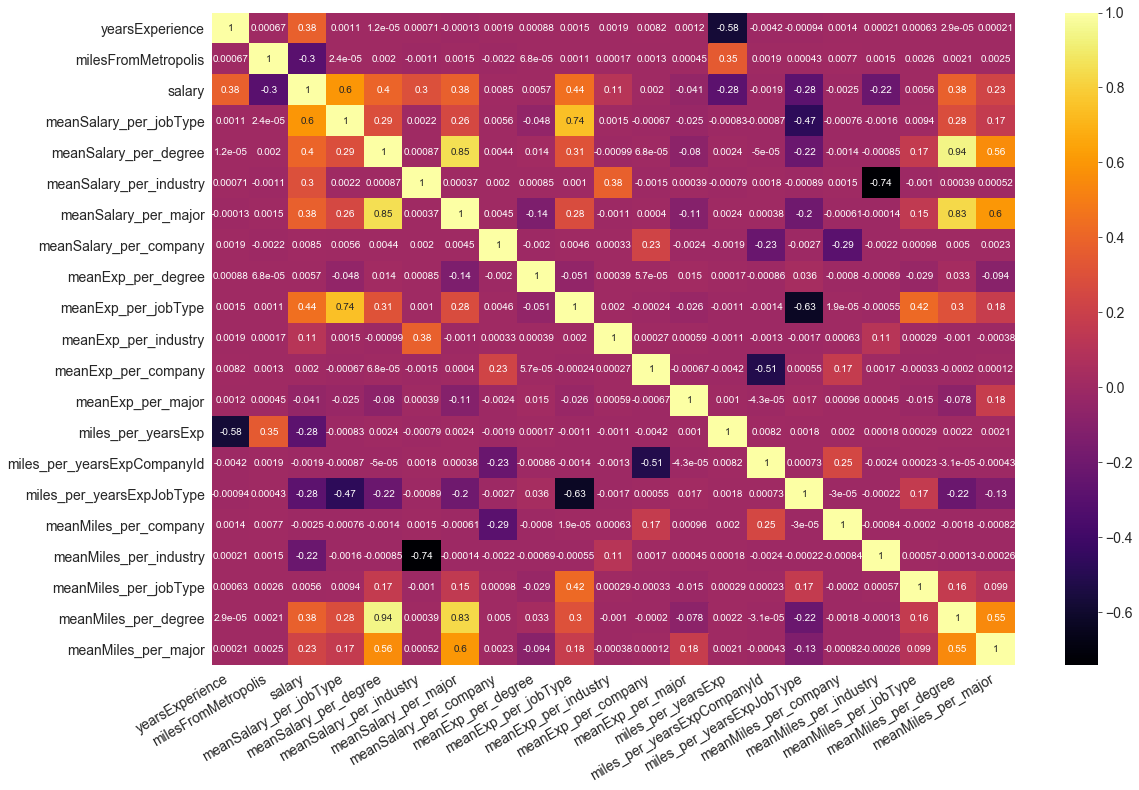
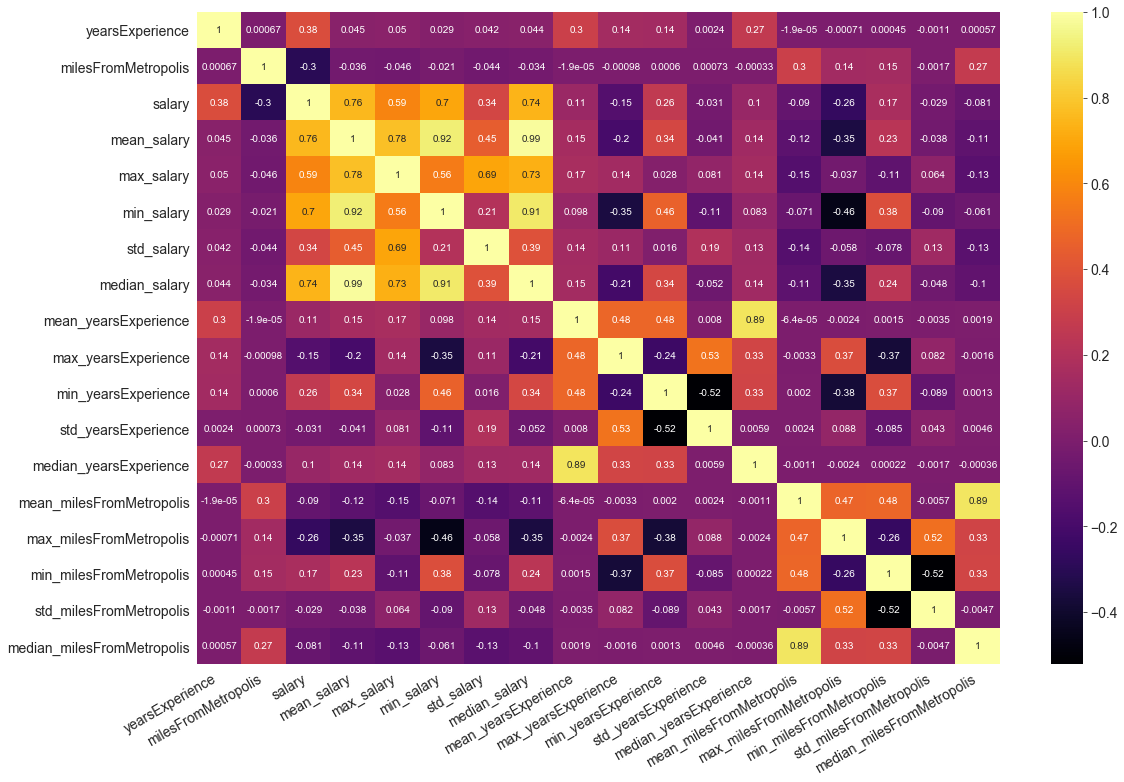
Added feature engineering section in README.

diff --git a/README.md b/README.md
@@ -125,4 +125,39 @@ The dataset is also almost uniformly distributed between various industries. Oil
 __8. `companyId`__
 
 ![company](assets/company_id.png)
-The above plot shows the median salaries of all the 63 unique companies. Most of the companies have their median salary of about 114k.  
+The above plot shows the median salaries of all the 63 unique companies. Most of the companies have their median salary of about 114k.
+
+## Feature Engineering
+Feature engineering is a big part of the machine learning workflow. It can lead to the drastic improvements in the performance metrics and it is an essential skill to have. Type of features generated depends a lot on the domain knowledge of the individual and different features can affect differently. This is the place where I spent most of my time on while working on this project. After brain-storming with a couple of ideas, I used the following extra-features along with the original ones:
+
+1. `mean`, `min`, `max`, `std`, `median` of `salary` grouped by all the categorical columns.
+2. `mean`, `min`, `max`, `std`, `median` of `yearsExperience` grouped by all the categorical columns.
+3. `mean`, `min`, `max`, `std`, `median` of `milesFromMetropolis` grouped by all the categorical columns.
+
+The corresponding correlation plot looks like this:
+
+![correlation](assets/corr_heatmap.png)
+
+The following table summarizes the correlation of each feature with target `salary`:
+| feature | correlation |
+| :---: | :---: |
+| `yearsExperience` | 0.375013 |
+| `milesFromMetropolis` | -0.297686 |
+| `mean_salary` | 0.755125 |
+| `max_salary` | 0.587387 |
+| `min_salary` | 0.698254 |
+| `std_salary` | 0.337293 |
+| `median_salary` | 0.744016 |
+| `mean_yearsExperience` | 0.113453 |
+| `max_yearsExperience` | -0.150344 |
+| `min_yearsExperience` | 0.257622 |
+| `median_yearsExperience` | 0.102039 |
+| `max_milesFromMetropolis` | -0.262282 |
+| `min_milesFromMetropolis` | 0.172798 |
+
+As we can see, `mean_salary` and `median_salary` has the largest magnitude of the correlation with target. This should not be surprising because every feature with suffix `_salary` is a result of some aggregate function based on target grouped by all categorical columns. In other words, all of the features with suffix `_salary` has some information about the `salary`. This looks really good but there's a big caveat: __although these feature will really help bringing the `mean_squared_error` (MSE) down for the training and validation set but they will result in poor generalization error__. The model will will overfit the validation set but will have a large MSE on the test set. This is called _data leakage_. To see its effect, we analyzed the model performance _with_ and _without_ these columns on 10-fold cross-validation and the results are shown in the following table (results rounded off to the nearest integer):
+
+| mean MSE with `*_salary` features | mean MSE without `*_salary` features |
+| :---: | :---: | 
+| 292 | 355 |
+
